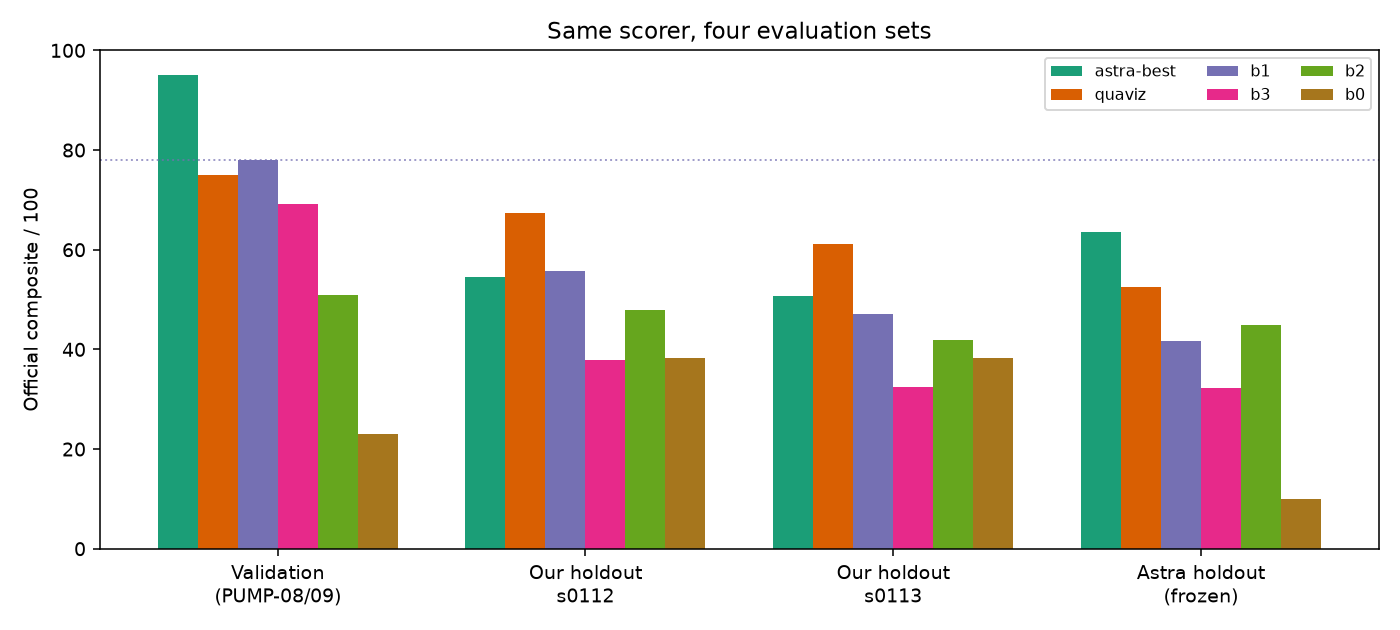
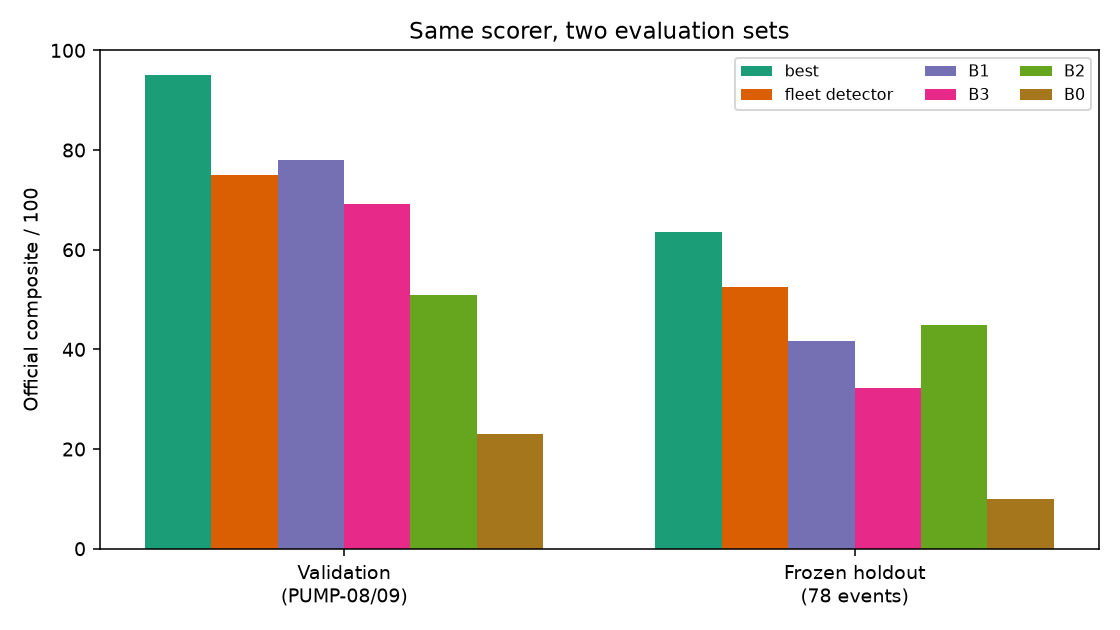
SOLUTION.md: drop our simulated fleets, add encoder recall, rename final model to best

diff --git a/RETROFIT_AI_PARTICIPANTS_2026/solution/make_figures.py b/RETROFIT_AI_PARTICIPANTS_2026/solution/make_figures.py
@@ -13,30 +13,28 @@ CHALLENGE = HERE.parent
 OUT = HERE / "figures"
 OUT.mkdir(parents=True, exist_ok=True)
 
+NAMES = {"astra-best": "best", "quaviz": "fleet detector", "b1": "B1", "b3": "B3", "b2": "B2", "b0": "B0"}
+SETS = {"validation": "Validation\n(PUMP-08/09)", "astra holdout": "Frozen holdout\n(78 events)"}
+
 
 def headline():
     s = pd.read_csv(HERE / "comparison" / "results" / "comparison.csv")
-    keep = ["astra-best", "quaviz", "b1", "b3", "b2", "b0"]
-    s = s[s["method"].isin(keep)]
-    order = ["validation", "our holdout s0112", "our holdout s0113", "astra holdout"]
-    labels = {"validation": "Validation\n(PUMP-08/09)", "our holdout s0112": "Our holdout\ns0112",
-              "our holdout s0113": "Our holdout\ns0113", "astra holdout": "Astra holdout\n(frozen)"}
-    methods = [m for m in keep if m in set(s["method"])]
+    s = s[s["method"].isin(NAMES) & s["set"].isin(SETS)]
     colors = {"astra-best": "#1b9e77", "quaviz": "#d95f02", "b1": "#7570b3", "b3": "#e7298a", "b2": "#66a61e",
               "b0": "#a6761d"}
+    order = list(SETS)
     x = np.arange(len(order))
     w = 0.13
-    fig, ax = plt.subplots(figsize=(10, 4.5))
-    for i, m in enumerate(methods):
+    fig, ax = plt.subplots(figsize=(8, 4.5))
+    for i, m in enumerate(NAMES):
         vals = [float(s[(s.method == m) & (s.set == st)]["composite_score"].iloc[0]) for st in order]
-        ax.bar(x + (i - len(methods) / 2) * w + w / 2, vals, w, label=m, color=colors[m])
+        ax.bar(x + (i - len(NAMES) / 2) * w + w / 2, vals, w, label=NAMES[m], color=colors[m])
     ax.set_xticks(x)
-    ax.set_xticklabels([labels[st] for st in order])
+    ax.set_xticklabels([SETS[st] for st in order])
     ax.set_ylabel("Official composite / 100")
     ax.set_ylim(0, 100)
-    ax.axhline(78.0, color="#7570b3", ls=":", lw=1, alpha=0.7)
     ax.legend(ncol=3, fontsize=8, loc="upper right")
-    ax.set_title("Same scorer, four evaluation sets")
+    ax.set_title("Same scorer, two evaluation sets")
     fig.tight_layout()
     fig.savefig(OUT / "01_headline_composites.png", dpi=140)
     plt.close(fig)
@@ -44,27 +42,29 @@ def headline():
 
 def per_type():
     pe = pd.read_csv(HERE / "comparison" / "results" / "per_event.csv")
-    pe = pe[pe["method"].isin(["astra-best", "quaviz", "b1"])]
-    pe = pe[pe["set"] != "validation"]  # holdouts only (enough events)
+    methods = ["astra-best", "quaviz", "b1"]
+    pe = pe[pe["method"].isin(methods) & (pe["set"] == "astra holdout")].copy()
     pe["named"] = pe["type_correct"].astype(int)
     g = pe.groupby(["fault_type", "method"]).agg(n=("detected", "size"), named=("named", "sum"))
-    rate = (g["named"] / g["n"]).unstack("method").reindex(columns=["astra-best", "quaviz", "b1"])
+    rate = (g["named"] / g["n"]).unstack("method").reindex(columns=methods)
+    n = g["n"].unstack("method")["astra-best"]
     rate = rate.sort_values("astra-best", ascending=False)
     fig, ax = plt.subplots(figsize=(8, 6))
     im = ax.imshow(rate.to_numpy(float), aspect="auto", vmin=0, vmax=1, cmap="viridis")
-    ax.set_xticks(range(3))
-    ax.set_xticklabels(["astra-best", "fleet detector", "B1"])
+    ax.set_xticks(range(len(methods)))
+    ax.set_xticklabels([NAMES[m] for m in methods])
     ax.set_yticks(range(len(rate)))
-    ax.set_yticklabels([t.replace("SENSOR_", "S_").replace("_", " ").title() for t in rate.index], fontsize=8)
+    ax.set_yticklabels([f"{t.replace('SENSOR_', 'S_').replace('_', ' ').title()} ({int(n[t])})" for t in rate.index],
+                       fontsize=8)
     for i in range(rate.shape[0]):
         for j in range(rate.shape[1]):
             v = rate.to_numpy(float)[i, j]
             if np.isfinite(v):
                 ax.text(j, i, f"{v:.0%}", ha="center", va="center", color="white" if v < 0.55 else "black", fontsize=8)
     fig.colorbar(im, ax=ax, fraction=0.03, label="First-alert type correct")
-    ax.set_title("Holdouts pooled: fraction of events named correctly first")
+    ax.set_title("Frozen holdout: fraction of events named correctly first")
     fig.tight_layout()
-    fig.savefig(OUT / "02_per_type_holdouts.png", dpi=140)
+    fig.savefig(OUT / "02_per_type_holdout.png", dpi=140)
     plt.close(fig)
 
 
@@ -75,20 +75,17 @@ def validation_timeline():
     ev["onset"] = pd.to_datetime(ev["onset_utc"], utc=True)
     ev["end"] = pd.to_datetime(ev["end_utc"], utc=True)
     al["t"] = pd.to_datetime(al["alert_time_utc"], utc=True)
-    pumps = ["PUMP-08", "PUMP-09"]
-    fig, axes = plt.subplots(2, 1, figsize=(11, 5), sharex=False)
-    for ax, aid in zip(axes, pumps):
+    fig, axes = plt.subplots(2, 1, figsize=(11, 5))
+    for ax, aid in zip(axes, ["PUMP-08", "PUMP-09"]):
         a = assets.set_index("asset_id").loc[aid]
         t0 = pd.to_datetime(a["window_start_utc"], utc=True)
         t1 = pd.to_datetime(a["window_end_utc"], utc=True)
-        e = ev[ev.asset_id == aid].copy()
-        for _, r in e.iterrows():
+        for _, r in ev[ev.asset_id == aid].iterrows():
             end = r["end"] if pd.notna(r["end"]) else t1
             ax.axvspan(r["onset"], end, color="#fdae6b", alpha=0.35)
-            ax.text(r["onset"], 0.85, r["fault_type"].replace("SENSOR_", "S_").replace("_", "\n"),
-                    fontsize=6, rotation=0, va="top")
+            ax.text(r["onset"], 0.85, r["fault_type"].replace("SENSOR_", "S_").replace("_", "\n"), fontsize=6, va="top")
         aa = al[al.asset_id == aid]
-        ax.scatter(aa["t"], np.full(len(aa), 0.4), marker="v", s=60, color="#1b9e77", zorder=3, label="astra-best alert")
+        ax.scatter(aa["t"], np.full(len(aa), 0.4), marker="v", s=60, color="#1b9e77", zorder=3, label="best: alert")
         for _, r in aa.iterrows():
             ax.text(r["t"], 0.15, r["fault_type"].replace("SENSOR_", "S_")[:14], fontsize=6, rotation=45, ha="right")
         ax.set_xlim(t0, t1)
@@ -96,7 +93,7 @@ def validation_timeline():
         ax.set_yticks([])
         ax.set_title(aid)
         ax.legend(loc="upper right", fontsize=8)
-    fig.suptitle("Validation: labeled events (orange) and final-model alerts (green)", y=1.02)
+    fig.suptitle("Validation: labeled events (orange) and alerts of the best model (green)", y=1.02)
     fig.tight_layout()
     fig.savefig(OUT / "03_validation_timeline.png", dpi=140, bbox_inches="tight")
     plt.close(fig)
@@ -104,59 +101,35 @@ def validation_timeline():
 
 def stage1_separability():
     p = HERE / "fleet_detector" / "results" / "stage1" / "separability_per_event.csv"
-    if not p.exists():
-        return
     res = pd.read_csv(p)
-    res = res[res["set"].str.startswith("official") | res["set"].str.startswith("sim")]
+    res = res[res["set"] == "official"]
     order = ["B1 z (first 24 h)", "ours A (context)", "ours B (consistency)", "ours A+B relative to own past"]
-    short = {"B1 z (first 24 h)": "B1 z", "ours A (context)": "Ours A", "ours B (consistency)": "Ours B",
-             "ours A+B relative to own past": "Ours relative"}
-    fig, axes = plt.subplots(1, 2, figsize=(9, 3.8), sharey=True)
-    for ax, (label, mask) in zip(axes, [("Official pumps", res["set"] == "official"),
-                                        ("Held-out sims", res["set"].str.startswith("sim"))]):
-        sub = res[mask]
-        vals = [sub[sub["score"] == s]["auc"].dropna() for s in order]
-        ax.boxplot(vals, tick_labels=[short[s] for s in order], showfliers=False)
-        ax.scatter(np.repeat(np.arange(1, 5), [len(v) for v in vals]), np.concatenate(vals),
-                   alpha=0.35, s=12, color="#444")
-        ax.axhline(0.5, color="gray", ls=":", lw=1)
-        ax.set_title(label)
-        ax.set_ylabel("Event AUROC" if ax is axes[0] else "")
-        ax.set_ylim(0, 1.05)
-    fig.suptitle("Stage 1: how well deviations separate the first 6 h of a fault from healthy minutes")
+    short = ["B1 z", "Context", "Consistency", "Relative\nto own past"]
+    vals = [res[res["score"] == s]["auc"].dropna() for s in order]
+    fig, ax = plt.subplots(figsize=(6, 4))
+    ax.boxplot(vals, tick_labels=short, showfliers=False)
+    ax.scatter(np.repeat(np.arange(1, 5), [len(v) for v in vals]), np.concatenate(vals), alpha=0.35, s=12, color="#444")
+    ax.axhline(0.5, color="gray", ls=":", lw=1)
+    ax.set_ylabel("Event AUROC")
+    ax.set_ylim(0, 1.05)
+    ax.set_title("Normal model: fault window vs healthy minutes\n(official pumps, 33 events)")
     fig.tight_layout()
     fig.savefig(OUT / "04_stage1_separability.png", dpi=140)
     plt.close(fig)
 
 
 def copy_static():
-    copies = [
-        (HERE / "encoding" / "latent-space" / "results" / "figures" / "per_pump_label_informed.png",
-         OUT / "05_encoding_label_informed.png"),
-        (HERE / "encoding" / "latent-space" / "results" / "figures" / "per_pump_cluster.png",
-         OUT / "06_encoding_clusters.png"),
-        (HERE / "encoding" / "encoding-expanded" / "results" / "comparison.png",
-         OUT / "07_encoding_expanded.png"),
-    ]
-    # fidelity report figure from logs if present
-    repo = CHALLENGE.parent
-    for cand in [repo / "logs" / "step1" / "figures", repo / "results"]:
-        pass
-    fidelity_figs = list((repo / "logs").glob("**/0*.png")) if (repo / "logs").exists() else []
-    for src in fidelity_figs:
-        if "fidelity" in src.name.lower() or src.name.startswith("09"):
-            copies.append((src, OUT / f"08_{src.name}"))
-    # also try common step1 figures
-    for name in ["01_fleet_coverage.png", "09_fidelity_before_after.png", "08_b1_by_type.png"]:
-        src = repo / "logs" / "step1" / name
+    enc = HERE / "encoding"
+    for src, dst in [(enc / "latent-space" / "results" / "figures" / "per_pump_label_informed.png", "05_encoding_label_informed.png"),
+                     (enc / "latent-space" / "results" / "figures" / "per_pump_cluster.png", "06_encoding_clusters.png"),
+                     (enc / "encoding-expanded" / "results" / "comparison.png", "07_encoding_expanded.png")]:
         if src.exists():
-            copies.append((src, OUT / f"08_{name}"))
-    for src, dst in copies:
-        if src.exists():
-            shutil.copy2(src, dst)
+            shutil.copy2(src, OUT / dst)
 
 
 def main():
+    for old in ["02_per_type_holdouts.png", "08_sim_coverage.png", "09_sim_event_mix.png"]:
+        (OUT / old).unlink(missing_ok=True)
     headline()
     per_type()
     validation_timeline()

diff --git a/RETROFIT_AI_PARTICIPANTS_2026/SOLUTION.md b/RETROFIT_AI_PARTICIPANTS_2026/SOLUTION.md
@@ -4,14 +4,14 @@ This document is the documentation of what we tried, what we kept, and why. The 
 
 ```mermaid
 flowchart LR
-    Data["Official pumps + simulated fleets"] --> DL["Track 1: deep learning - encode first"]
+    Data["Official pumps + synthetic training recordings"] --> DL["Track 1: deep learning - encode first"]
     Data --> ML["Track 2: machine learning"]
     DL -->|"encodings lose fault-type detail"| Decision["Go to supervised ML on physical features"]
     ML --> Normal["Normal operation: healthy-response regressors"]
     Normal --> Fault["Fault type: boosted-tree classifiers"]
     Fault --> Policy["Alert policy"]
-    Policy --> Eval["Same scorer, 4 evaluation sets"]
-    Eval --> Final["Final: astra-best ensemble"]
+    Policy --> Eval["Same scorer, 2 evaluation sets"]
+    Eval --> Final["Final: best ensemble"]
 ```
 
 ## 1. Problem and scoring
@@ -26,14 +26,7 @@ The challenge asks for alerts that name the right fault type on centrifugal pump
 | Official train PUMP-01…07 | Primary labeled training |
 | Official validation PUMP-08/09 | Headline number (used for selection by the final model; not by the fleet detector) |
 | Official test PUMP-10…12 | Submission only; never labeled or tuned on |
-| Our simulated fleets (`build/sim`, 13 seeds, 234 pumps) | Volume and coverage for the fleet detector; s0112/s0113 held out |
-| Final-model synthetic roles | Training / development / frozen holdout for the ensemble |
-
-Fidelity of our simulated fleets against the official pumps was checked before training (coverage and event mix):
-
-![Simulated fleet coverage](solution/figures/08_sim_coverage.png)
-
-![Event mix](solution/figures/09_sim_event_mix.png)
+| Synthetic recordings from the challenge simulator | Training and development data, plus a frozen holdout of 21 pumps (78 scored events) generated only after the model was frozen |
 
 ## 3. Track 1 — deep learning: encode first
 
@@ -43,7 +36,16 @@ Before training a deep detector we asked whether compressing each minute into a 
 
 1. PCA keeps the most input information on 11 of 12 pumps.
 2. For “fault present”, the label-informed autoencoder leads the original within-pump study (validation AP **0.770**). With 108 extra simulated recordings, a fault-trained task encoder reaches **0.869** fresh-test AP against **0.827** for kernel PCA.
-3. Classifiers on the **full feature set** name individual fault types better than classifiers on the encodings.
+3. **Recall** (share of faulty minutes flagged, at the cutoff chosen on development data):
+
+   | Encoding + logistic regression | Fresh-test AP | Recall | False-positive rate |
+   |---|---:|---:|---:|
+   | Fault-trained task encoder (best encoding) | 0.869 | **74.6%** | 15.2% |
+   | Kernel PCA | 0.827 | 85.0% | 36.9% |
+   | Raw features, no encoding | 0.857 | 83.2% | 38.5% |
+
+   In the original within-pump study, the label-informed encoder flagged **45.1%** of faulty test minutes on PUMP-01 and **100%** on PUMP-09. These are minute-level rates, not the event recall of the official scorer.
+4. Classifiers on the **full feature set** name individual fault types better than classifiers on the encodings.
 
 ![Label-informed encoding maps](solution/figures/05_encoding_label_informed.png)
 
@@ -66,7 +68,7 @@ Healthy-response regressors are fitted only on healthy steady minutes. Their gap
 
 ### Fault type
 
-- **Final model (astra-best):** four equally weighted boosted-tree views for machine faults and gateway loss, plus **four shared per-channel sensor specialists** (drift, stuck, calibration shift, noise).
+- **Final model (best):** four equally weighted boosted-tree views for machine faults and gateway loss, plus **four shared per-channel sensor specialists** (drift, stuck, calibration shift, noise).
 - **Fleet detector:** one multiclass histogram-gradient-boosted classifier over NORMAL + 13 fault types on 367 causal window features (raw-signal windows + stage-1 deviation features).
 
 ### Alert policy
@@ -77,37 +79,36 @@ Persistence before alerting, inhibition while stopped (except communication loss
 
 Every method below is scored with the **same official scorer**. Numbers for the final model on validation and on its holdout were reproduced exactly from the frozen `model.joblib`. The full table is in [`solution/comparison/results/comparison.csv`](solution/comparison/results/comparison.csv).
 
-| Set | **Final (astra-best)** | Fleet detector | B1 | B3 | B2 | B0 |
+| Set | **Final (best)** | Fleet detector | B1 | B3 | B2 | B0 |
 |---|---:|---:|---:|---:|---:|---:|
 | Validation (9 events) | **95.0** | 75.0 | 78.0 | 69.2 | 50.9 | 23.1 |
-| Our holdout s0112 (78) | 54.5 | **67.4** | 55.7 | 38.0 | 47.9 | 38.4 |
-| Our holdout s0113 (68) | 50.7 | **61.2** | 47.0 | 32.4 | 41.8 | 38.3 |
-| Astra holdout (78) | **63.5** | 52.5 | 41.7 | 32.3 | 44.9 | 10.0 |
+| Frozen holdout (78 events) | **63.5** | 52.5 | 41.7 | 32.3 | 44.9 | 10.0 |
+
+B0 scores 10.0 on the frozen holdout because those recordings have no SCADA alarm table.
 
 ![Headline composites](solution/figures/01_headline_composites.png)
 
-![Per-type on holdouts](solution/figures/02_per_type_holdouts.png)
+![Per-type on the frozen holdout](solution/figures/02_per_type_holdout.png)
 
 ![Validation timeline](solution/figures/03_validation_timeline.png)
 
-### Final model: astra-best ensemble
+### Final model: best ensemble
 
-We select the **astra-best** ensemble as the submission. It is best on validation (95.0) and on the holdout closest to the official pumps (63.5), and it beats every baseline on all four sets.
+We select the **best** ensemble as the submission. It is highest on validation (95.0) and on the frozen holdout (63.5), and it beats every baseline on both.
 
 **Why we also think it is more general and robust**
 
 1. **Per-channel sensor specialists**, shared across channels, so they carry over when the instrument layout changes.
 2. **Physics-derived features**: pump-curve and suction departures, nameplate ratios, vibration harmonics and bearing envelopes.
 3. **Training on crossed control and instrumentation combinations**, with an ensemble of four views rather than a single classifier.
-4. **It still beats every baseline** on a holdout frozen before it was generated, and on our independently generated fleets.
+4. **It still beats every baseline** on a holdout generated only after the model was frozen, with pump flow and head ratings rescaled by up to ±15%.
 
-The fleet detector remains as a second approach: stronger on hydraulic faults (clogging, discharge restriction, air entrainment) on our holdouts, weaker on sensor faults and on the astra holdout’s ±15% rating spread. The two are complementary; the ensemble’s sensor branch is the piece that decides the selection.
+The fleet detector remains as a second approach. On the frozen holdout it names clogging (7 of 7 against 3 of 7) and cavitation (4 of 20 against 1 of 20) more often, but it is clearly weaker on sensor faults (noise spikes 2 of 7 against 6 of 7) and on imbalance (0 of 4 against 3 of 4). The two are complementary; the ensemble’s sensor branch is the piece that decides the selection.
 
 ## 6. Honest limits
 
-- Validation was used to select the final model and its policy. The 95.0 is not a blind estimate. Prefer the frozen holdout (63.5) and the cross-generator numbers above.
+- Validation was used to select the final model and its policy. The 95.0 is not a blind estimate; prefer the frozen holdout (63.5).
 - Cavitation and calibration shifts stay weak for both ML approaches.
-- The final model raises more false alerts on our broader fleets than the fleet detector does.
 - All results come from one simulator family, not field data.
 
 ## 7. How to run
@@ -150,7 +151,7 @@ RETROFIT_AI_PARTICIPANTS_2026/
     final_model/              ← frozen ensemble + inference (THE model)
     fleet_detector/           ← second ML approach + cache + results
     encoding/                 ← deep-learning encode-first study
-    comparison/               ← head-to-head on four sets
+    comparison/               ← head-to-head on the same scorer
     figures/                  ← plots linked above
     make_figures.py
 ```
